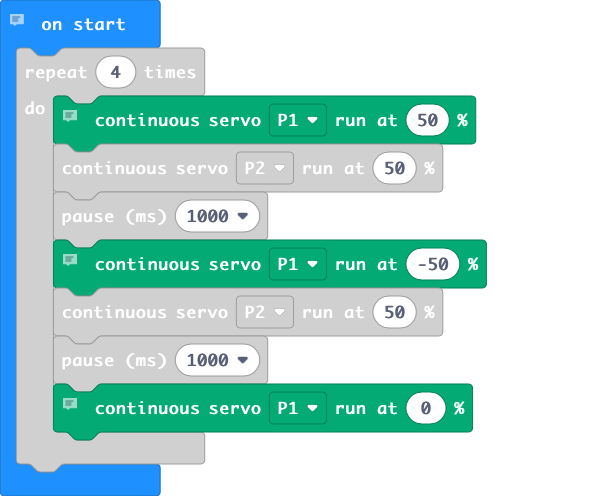
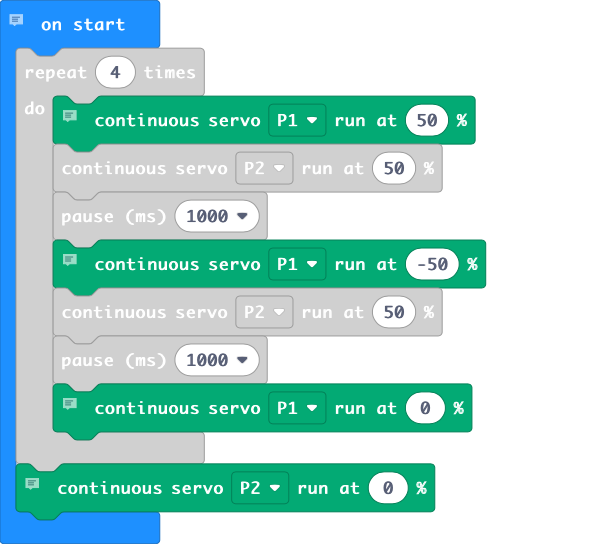
Update pxt.json, main.blocks, main.ts

diff --git a/main.ts b/main.ts
@@ -11,3 +11,5 @@ for (let index = 0; index < 4; index++) {
     // stop
     servos.P1.run(0)
 }
+// stop
+servos.P2.run(0)
